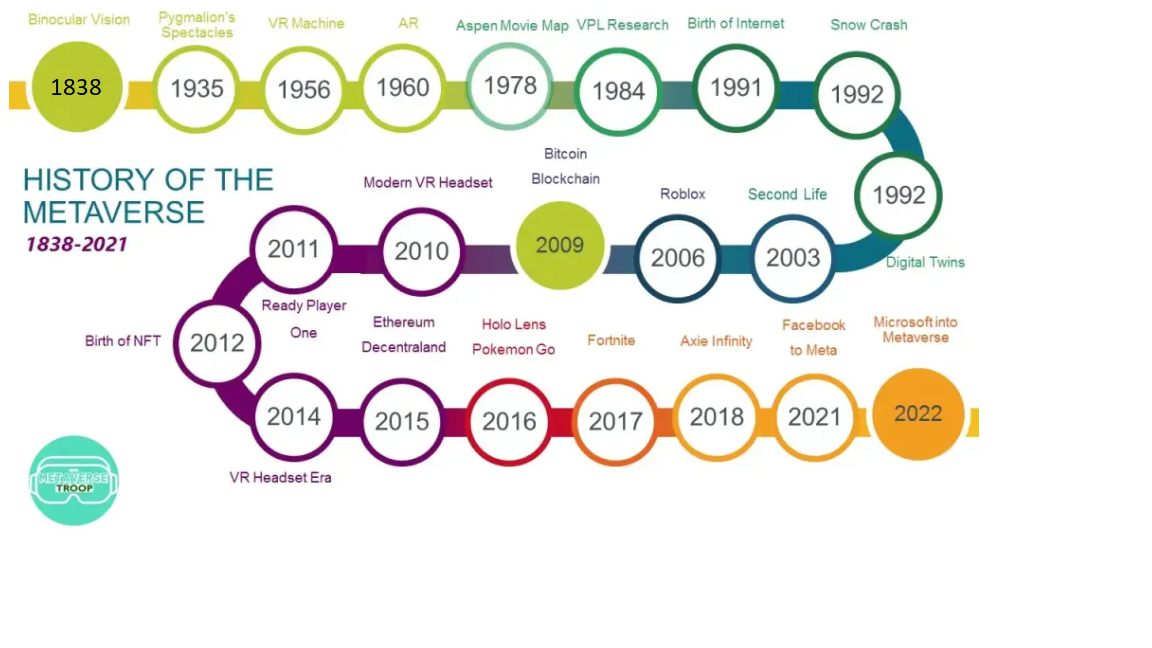
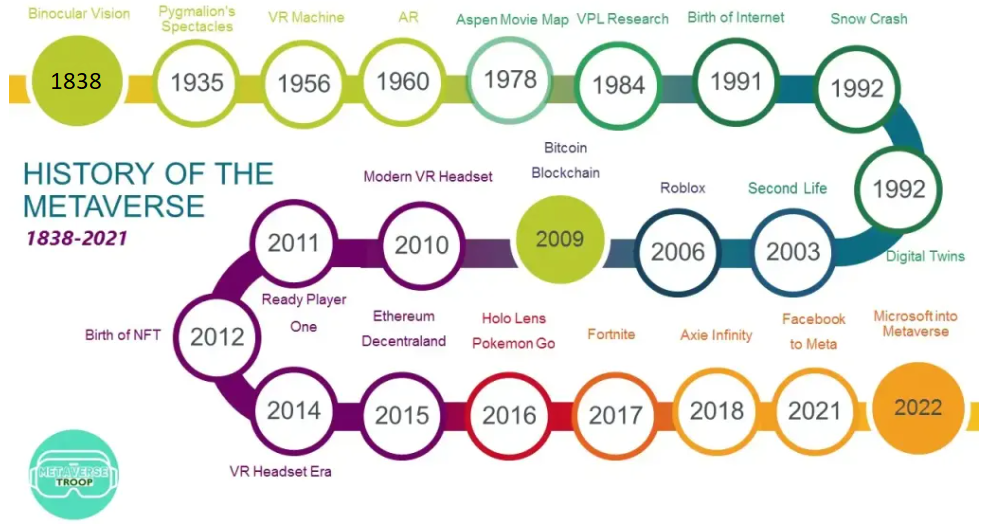
update

diff --git a/index.html b/index.html
@@ -452,10 +452,9 @@ Assistant Professor, Dept. of Education
 </div>
 </section><section class="slide level2"><h2><code>History of Metaverse</code></h2>
 
-<img data-src="figures/history.png" class="r-stretch quarto-figure-center"><p>Source: <a href="https://metaversetroop.com/history-of-the-metaverse/">Ziaul (March, 2022)</a></p>
+<img data-src="figures/history.png" width="767" class="r-stretch quarto-figure-center"><p>Source: <a href="https://metaversetroop.com/history-of-the-metaverse/">Ziaul (March, 2022)</a></p>
 <ul>
-<li>Web 1.0, Web 2.0, Web 3.0</li>
-<li>Metaverse Standards <a href="https://metaverse-standards.org/" class="uri">https://metaverse-standards.org/</a>
+<li>Web 3.0, Metaverse Standards <a href="https://metaverse-standards.org/" class="uri">https://metaverse-standards.org/</a>
 </li>
 </ul></section><section class="slide level2"><h2><code>Technologies Used in the Metaverse</code></h2>
 
